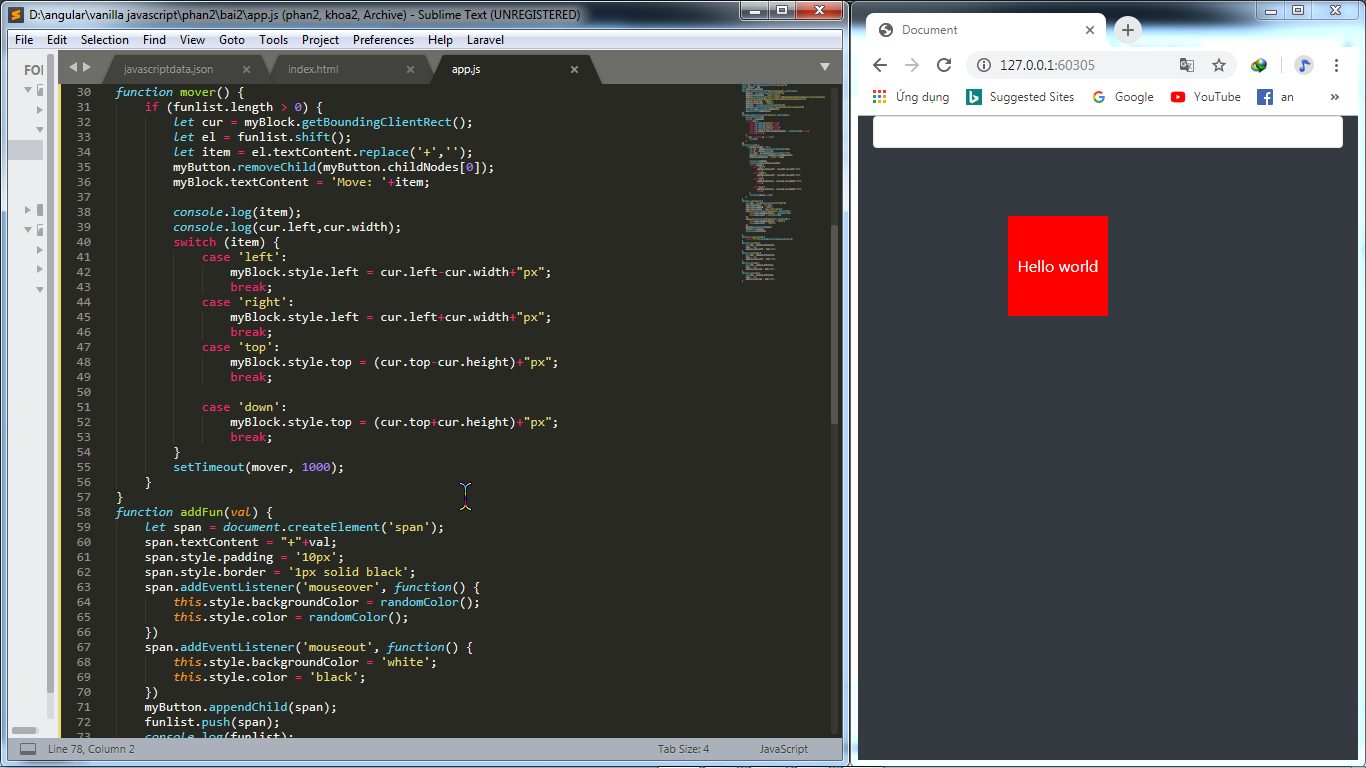
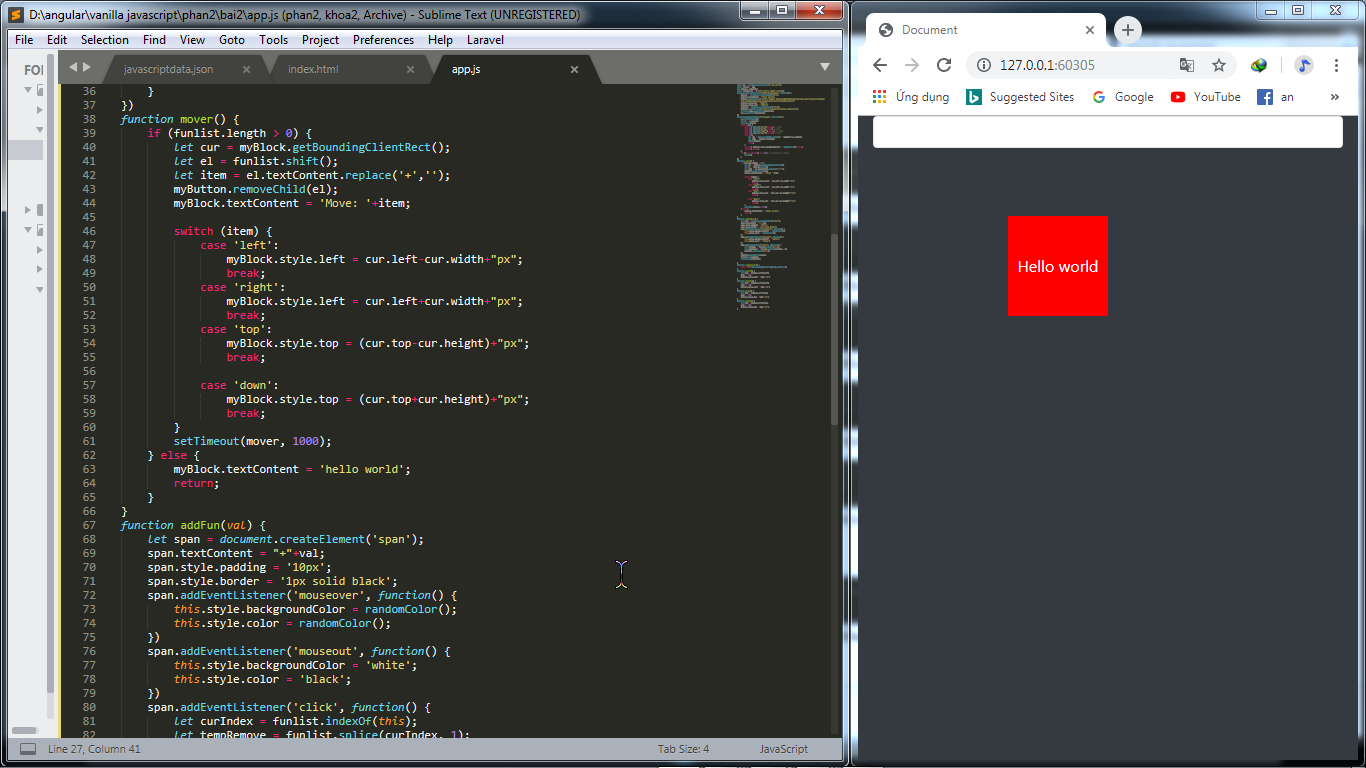
sdf

diff --git a/duan/test-11/app.js b/duan/test-11/app.js
@@ -1,6 +1,7 @@
 const box = document.querySelector('.box-pro');
 const funlist = [];
 let myBlock, myButton;
+const randomArray = ['left','top','right','down'];
 document.addEventListener('DOMContentLoaded', function() {
 	myBlock = document.createElement('div');
 	myBlock.textContent = 'Hello world';
@@ -15,15 +16,22 @@ document.addEventListener('DOMContentLoaded', function() {
 document.addEventListener('keydown', function(e) {
 	e.preventDefault();
 	let el = e.keyCode;
+	console.log(el);
 	switch (el) {
-		case 37: addFun('left'); break;
-		case 38: addFun('top'); break;
-		case 39: addFun('right'); break;
-		case 40: addFun('down'); break;
+		case 37: addFun('left'); break; // left
+		case 38: addFun('top'); break; // top
+		case 39: addFun('right'); break; // right
+		case 40: addFun('down'); break; // down
+		case 82:{  // r
+			let ran = Math.floor(Math.random() * randomArray.length);
+			let temp = randomArray[ran];
+			addFun(temp);
+			break;
+		}
 		case 67: myBlock.style.backgroundColor = randomColor(); break;
 		default: break;
 	}
-	if (el === 13 || el === 32) {
+	if (el === 13 || el === 32) { // backspace or enter
 		mover();
 	}
 })
@@ -32,11 +40,9 @@ function mover() {
 		let cur = myBlock.getBoundingClientRect();
 		let el = funlist.shift();
 		let item = el.textContent.replace('+','');
-		myButton.removeChild(myButton.childNodes[0]);
+		myButton.removeChild(el);
 		myBlock.textContent = 'Move: '+item;
-
-		console.log(item);
-		console.log(cur.left,cur.width);
+		
 		switch (item) {
 			case 'left':
 				myBlock.style.left = cur.left-cur.width+"px";
@@ -53,6 +59,9 @@ function mover() {
 				break;
 		}
 		setTimeout(mover, 1000);
+	} else {
+		myBlock.textContent = 'hello world';
+		return;
 	}
 }
 function addFun(val) {
@@ -67,6 +76,11 @@ function addFun(val) {
 	span.addEventListener('mouseout', function() {
 		this.style.backgroundColor = 'white';
 		this.style.color = 'black';
+	})
+	span.addEventListener('click', function() {
+		let curIndex = funlist.indexOf(this);
+		let tempRemove = funlist.splice(curIndex, 1);
+		myButton.removeChild(this);
 	})
 	myButton.appendChild(span);
 	funlist.push(span);
